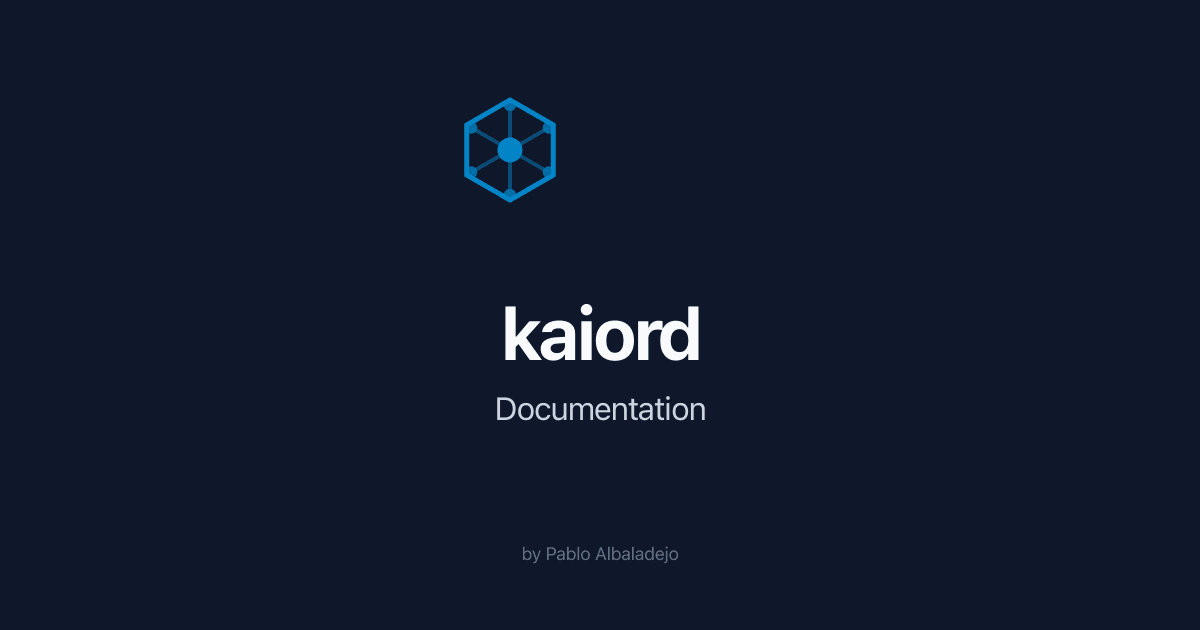
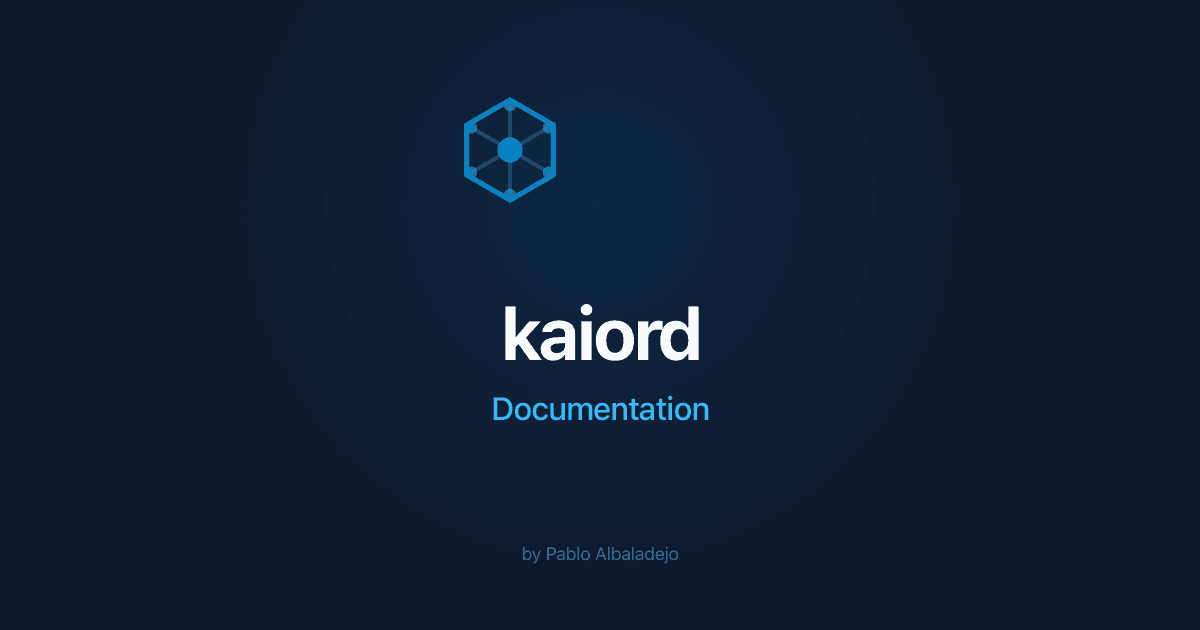
chore: refresh docs and editor OG images to match platform brand (#869)
* chore: refresh docs and editor OG images to match platform brand

Docs: add ambient radial glow + sky-accented 'Documentation' subtitle to
the generated og-image-docs.png. Editor: add its own og-image-editor.png
(subtitle 'Editor') via a mirrored sharp generator, and repoint the
editor's og:image/twitter:image at it instead of the shared landing card.
Both cards now share the landing's visual system (glow, hexagon mark,
kaiord wordmark, sky accent, byline).

* chore: exit non-zero when OG image generation fails

Address CodeRabbit review: main().catch(console.error) swallowed failures
with exit code 0, so a broken OG generation step would pass silently in CI.
Set process.exitCode = 1 on error in both the docs and editor generators.

---------

Pull request: chore: refresh docs and editor OG images to match platform brand
## Summary

Follow-up to #867 / #868. Bring the **docs** and **editor** social share images in line with the refreshed landing OG card.

- **Docs** (`og-image-docs.png`): added the ambient radial glow behind the mark and set the "Documentation" subtitle in sky (`#38bdf8`), matching the landing card. Regenerated via the updated `packages/docs/scripts/generate-og-image.mjs`.
- **Editor**: previously reused the landing's `/og-image.png`. It now ships **its own** `og-image-editor.png` (subtitle "Editor") via a mirrored sharp generator, and its `og:image` / `twitter:image` are repointed to `https://kaiord.com/editor/og-image-editor.png`.

The three surfaces now form a consistent set — landing ("Your training cockpit. Every fitness format."), docs ("Documentation"), editor ("Editor") — sharing the same dark ground, glow, hexagon mark, `kaiord` wordmark, sky accent, and byline.

## Notes

- Both images are 1200x630 and reproducible from each package's `generate-og-image.mjs` (sharp + SVG, brand colors read from `styles/brand-tokens.css`).
- `sharp` is resolved via workspace hoisting in the OG scripts, matching the pre-existing docs generator; the editor's eslint ignores `scripts/` and knip's scope is `src/`, so no dependency-graph churn.

## Verification

- Both generators run clean; PNGs rendered and visually inspected (glow, wordmark, sky subtitle, byline).

🤖 Generated with [Claude Code](https://claude.com/claude-code)
[…]

diff --git a/packages/workout-spa-editor/index.html b/packages/workout-spa-editor/index.html
@@ -37,7 +37,10 @@
       property="og:description"
       content="Visual workout editor for creating and converting FIT, TCX, ZWO, and Garmin Connect files. By Pablo Albaladejo."
     />
-    <meta property="og:image" content="https://kaiord.com/og-image.png" />
+    <meta
+      property="og:image"
+      content="https://kaiord.com/editor/og-image-editor.png"
+    />
     <meta property="og:url" content="https://kaiord.com/editor/" />
     <meta property="og:type" content="website" />
     <meta property="og:locale" content="en_US" />
@@ -50,7 +53,10 @@
       name="twitter:description"
       content="Visual workout editor for creating and converting FIT, TCX, ZWO, and Garmin Connect files. By Pablo Albaladejo."
     />
-    <meta name="twitter:image" content="https://kaiord.com/og-image.png" />
+    <meta
+      name="twitter:image"
+      content="https://kaiord.com/editor/og-image-editor.png"
+    />
 
     <!--
       Runtime configuration. The placeholder __CF_ANALYTICS_TOKEN__ is

diff --git a/.changeset/og-images-docs-editor.md b/.changeset/og-images-docs-editor.md
@@ -1,0 +1,6 @@
+---
+"@kaiord/docs": patch
+"@kaiord/workout-spa-editor": patch
+---
+
+Refresh the docs and editor OG images to match the platform brand: add the ambient radial glow and a sky-accented subtitle. The editor now ships its own OG card (og-image-editor.png, subtitle "Editor") instead of reusing the landing image, with its meta tags repointed accordingly. Both are reproducible via each package's generate-og-image.mjs script.